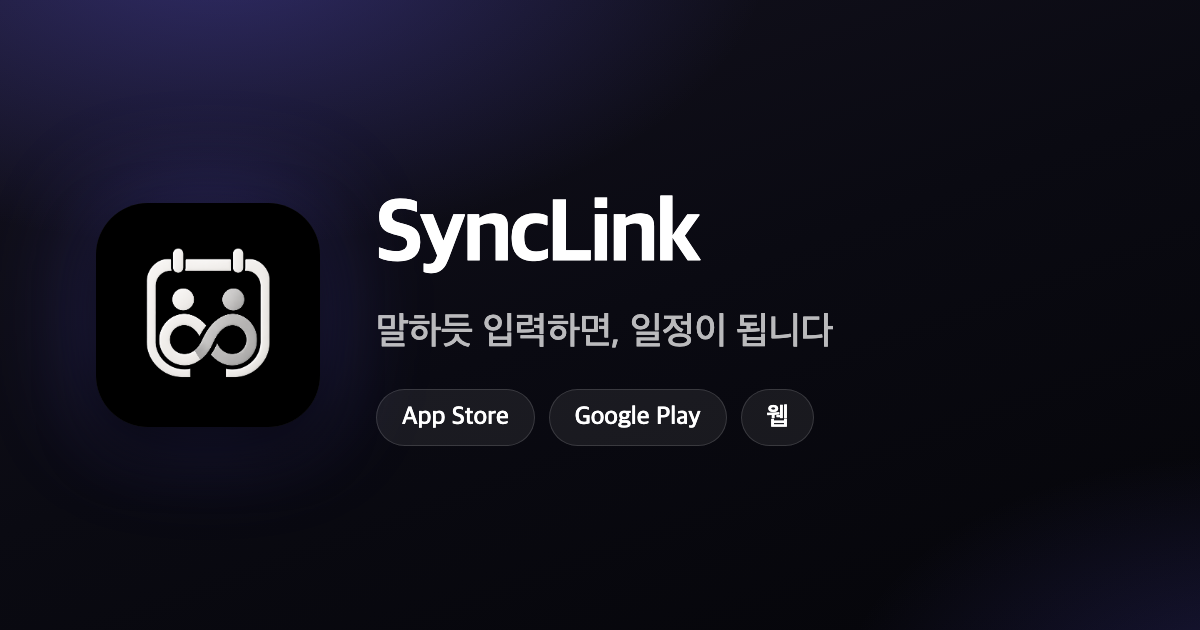
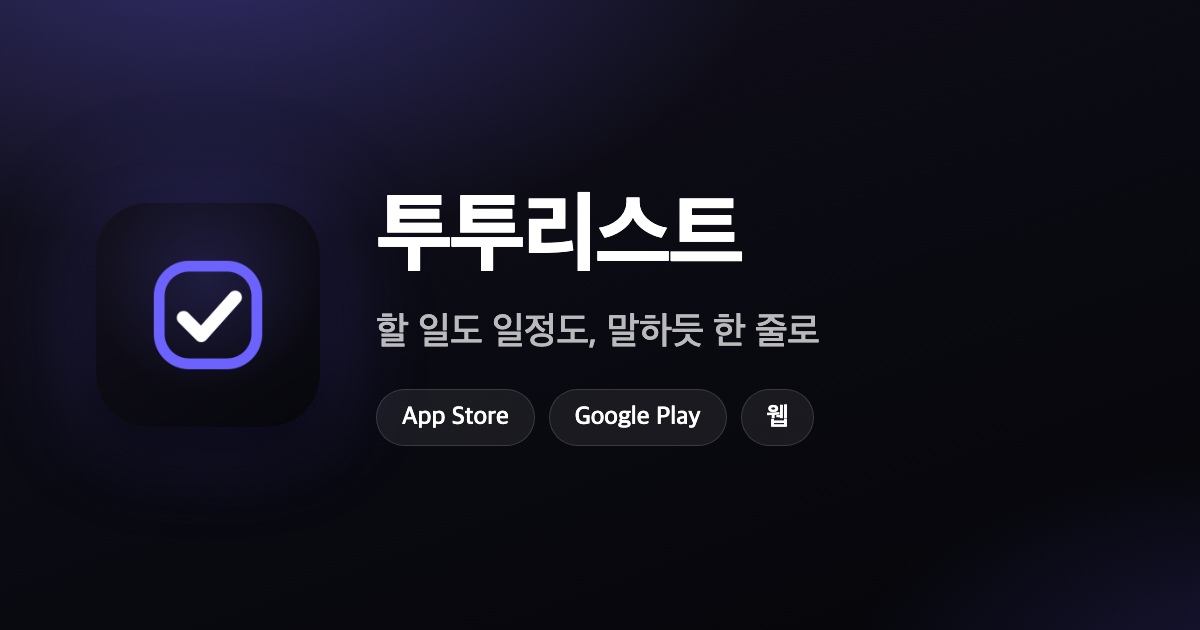
feat(brand): SyncLink → 투투리스트 리브랜딩 (자산·문구)
LEAD 확정(08-10): 이름=투투리스트, 아이콘=컨셉A(둥근 체크박스),
App Store 부제="함께 쓰는 할 일·일정 관리",
Play 짧은 설명="할 일도 일정도 말하듯 한 줄로. 함께 쓰는 캘린더로 모임 날짜까지 정해요."

**브랜치 작업이다.** main 에 섞으면 급한 수정을 낼 때 반쯤 바뀐 브랜딩이 딸려 나간다.
스크린샷·스토어 메타데이터까지 갖춰진 뒤 한 사이클로 합친다.

## 바꾼 것

- app.json: name, icon, splash.image, android.adaptiveIcon.foregroundImage
  🔴 adaptiveIcon 은 전용 자산(TwotwoLogo_adaptive)을 쓴다 — 적응형은 바깥 33% 가
     잘려서 풀블리드를 그대로 넣으면 가장자리가 먹힌다(기존 SyncDayLogo 가 그 상태였다).
- targets/widget/expo-target.config.json: 위젯 아이콘
- i18n 4개 로케일 **28건**
  · SyncLink 20건 + **SyncDay 8건**. 후자는 이전 개명 때 누락돼 이메일 초대
    문구에 아직 남아 있던 구 브랜드명이다.
  · 비한국어 로케일에도 '투투리스트' 를 그대로 쓴다 — 그중 둘이 "설정 → SyncLink →
    연락처" 처럼 **OS 설정의 실제 앱 이름을 가리키는 안내**라, 영문으로 바꾸면
    사용자가 찾을 수 없는 이름을 안내하게 된다.
- 스크린샷 생성기: 히어로 로고·워드마크·문구.
  워드마크를 하드코딩에서 `f.title` 참조로 바꿨다 — 하드코딩이 남아 있으면
  다음 브랜드 변경 때 스크린샷에만 옛 이름이 실린다(이번에 실제로 그럴 뻔했다).
  불릿도 승인된 Play 짧은 설명과 축을 맞췄다(말하듯 한 줄/함께 쓰는 캘린더/모임 날짜 투표).
- 랜딩 public/get/: title·OG·히어로·푸터 8곳 + logo.png(512) + og.png 재생성

## 새로 만든 것

`scripts/landing/build-assets.mjs` — 랜딩 logo/og 생성기를 **저장소로 옮겼다.**
스크래치패드 일회성 스크립트로만 있어서 브랜드가 바뀌면 스크립트부터 다시 써야 했다.
sharp 대신 macOS 내장 sips 를 쓴다(sharp 는 이 프로젝트 CI 이미지에서 소스빌드된다).

## 유지한 것

번들ID·패키지(io.synclink.app)·scheme·도메인(synclink.pages.dev).
바꾸면 기존 사용자와 배포된 초대링크가 끊긴다.

## 검증

- tsc 20건(변경 전후 동일, locales 에러 0)
- og.png 육안 확인 — 새 로고·한글 글리프 정상
- 앱 화면 캡처(public/get/shot-*.png)에는 브랜드 문구가 없어 재촬영 불필요

## 남은 것

스토어 스크린샷 재합성(shots/ 캡처 원본이 없어 capture.mjs 재실행 필요),
스토어 메타데이터 반영, 빌드·제출.
[…]

Changed region(s): [[0.0617, 0.3016, 0.2775, 0.6032], [0.3083, 0.3016, 0.6167, 0.4524], [0.3083, 0.4825, 0.7092, 0.573]]

diff --git a/src/locales/ja.ts b/src/locales/ja.ts
@@ -431,8 +431,8 @@ const ja = {
     share_invite_copied_body: '招待メッセージをクリップボードにコピーしました。どこにでも貼り付けて送信できます。',
     share_invite_title: '招待メッセージ',
     join_preview_description: 'この Space に参加しますか？',
-    share_message: 'SyncLink Space "{{name}}" に招待します！\n招待コード：{{code}}\n参加リンク：{{link}}',
-    email_body: 'SyncDay Space "{{name}}" に招待します！\n\n招待コード：{{code}}\n参加リンク：{{link}}\n\n上のリンクをクリックするか、SyncDay アプリでコードを入力して参加してください。',
+    share_message: '투투리스트 Space "{{name}}" に招待します！\n招待コード：{{code}}\n参加リンク：{{link}}',
+    email_body: '투투리스트 Space "{{name}}" に招待します！\n\n招待コード：{{code}}\n参加リンク：{{link}}\n\n上のリンクをクリックするか、투투리스트 アプリでコードを入力して参加してください。',
     edit_accessibility: 'Space を編集',
     // IDEA-011 Phase B — 明示的な所有権譲渡 UX
     transfer_ownership: '管理者の変更',
@@ -445,7 +445,7 @@ const ja = {
   contact: {
     title: '連絡先から招待',
     unsupported: 'このブラウザは連絡先へのアクセスをサポートしていません。招待コードを直接共有してください。',
-    denied: '連絡先へのアクセスがブロックされています。\n設定 → SyncLink → 連絡先 → 許可 に変更すると友達を検索して招待できます。',
+    denied: '連絡先へのアクセスがブロックされています。\n設定 → 투투리스트 → 連絡先 → 許可 に変更すると友達を検索して招待できます。',
     search_placeholder: '名前・電話番号・メールで検索',
     empty_contacts: '電話番号またはメールアドレスのある連絡先がありません。',
     no_results: '検索結果がありません。',
@@ -589,7 +589,7 @@ const ja = {
     notif_web_enable: 'このブラウザで通知を有効化',
     notif_web_blocked: 'ブラウザで通知がブロックされています',
     notif_web_enabled: '✓ このブラウザで通知が有効になっています。',
-    notif_device_note: '通知を受け取るには端末の通知権限が許可されている必要があります。\n設定アプリで SyncLink の通知を許可してください。',
+    notif_device_note: '通知を受け取るには端末の通知権限が許可されている必要があります。\n設定アプリで 투투리스트 の通知を許可してください。',
     licenses_title: 'オープンソースライセンス',
     licenses_intro: 'このアプリは以下のオープンソースおよび外部ライブラリを使用しています。各ライセンスの全文は該当プロジェクトのリポジトリで確認できます。',
     cat_color_label: 'カラー',
@@ -719,7 +719,7 @@ const ja = {
   },
 
   paywall: {
-    title: 'SyncLink Pro',
+    title: '투투리스트 Pro',
     headline: 'すべての機能を無制限で利用',
     features: [
       'AI 自然語イベント無制限',
@@ -747,7 +747,7 @@ const ja = {
     purchase_unavailable_title: '購入不可',
     purchase_unavailable_desc: '現在、決済を処理できません。しばらくしてから再試行してください。',
     purchase_complete_title: 'ご購読完了',
-    purchase_complete_desc: 'SyncLink Pro をお楽しみください！',
+    purchase_complete_desc: '투투리스트 Pro をお楽しみください！',
     purchase_failed_title: '購入失敗',
     purchase_failed_desc: '決済中にエラーが発生しました。',
     restore_complete_title: '復元完了',

diff --git a/src/locales/ko.ts b/src/locales/ko.ts
@@ -445,8 +445,8 @@ const ko = {
     share_invite_copied_body: '초대 메시지가 클립보드에 복사되었습니다. 카카오톡/Slack/이메일 등 원하는 곳에 붙여넣으세요.',
     share_invite_title: '초대 메시지',
     join_preview_description: '이 Space에 참여하시겠습니까?',
-    share_message: 'SyncLink Space "{{name}}"에 초대합니다!\n초대 코드: {{code}}\n참여 링크: {{link}}',
-    email_body: 'SyncDay Space "{{name}}"에 초대합니다!\n\n초대 코드: {{code}}\n참여 링크: {{link}}\n\n위 링크를 클릭하거나, SyncDay 앱에서 위 코드를 입력해 참여하세요.',
+    share_message: '투투리스트 Space "{{name}}"에 초대합니다!\n초대 코드: {{code}}\n참여 링크: {{link}}',
+    email_body: '투투리스트 Space "{{name}}"에 초대합니다!\n\n초대 코드: {{code}}\n참여 링크: {{link}}\n\n위 링크를 클릭하거나, 투투리스트 앱에서 위 코드를 입력해 참여하세요.',
     edit_accessibility: 'Space 편집',
     // IDEA-011 Phase B — 소유권 명시적 양도 UX
     transfer_ownership: '관리자 변경',
@@ -459,7 +459,7 @@ const ko = {
   contact: {
     title: '연락처에서 초대',
     unsupported: '이 브라우저는 연락처 접근을 지원하지 않습니다. 초대 코드를 직접 공유해 주세요.',
-    denied: '연락처 접근이 차단되어 있습니다.\n설정 → SyncLink → 연락처 → 허용으로 변경하면 친구를 검색해 초대할 수 있어요.',
+    denied: '연락처 접근이 차단되어 있습니다.\n설정 → 투투리스트 → 연락처 → 허용으로 변경하면 친구를 검색해 초대할 수 있어요.',
     search_placeholder: '이름, 전화번호, 이메일로 검색',
     empty_contacts: '연락처에 전화번호나 이메일이 있는 항목이 없어요.',
     no_results: '검색 결과가 없습니다.',
@@ -605,7 +605,7 @@ const ko = {
     notif_web_enable: '이 브라우저에 알림 활성화',
     notif_web_blocked: '브라우저에서 알림 차단됨',
     notif_web_enabled: '✓ 이 브라우저는 알림이 활성화되어 있습니다.',
-    notif_device_note: '알림을 받으려면 기기의 알림 권한이 허용되어 있어야 합니다.\n설정 앱에서 SyncLink의 알림을 허용해 주세요.',
+    notif_device_note: '알림을 받으려면 기기의 알림 권한이 허용되어 있어야 합니다.\n설정 앱에서 투투리스트의 알림을 허용해 주세요.',
     licenses_title: '오픈소스 라이선스',
     licenses_intro: '이 앱은 다음 오픈소스 및 외부 라이브러리를 사용합니다. 각 라이선스의 전문은 해당 프로젝트 저장소에서 확인할 수 있습니다.',
     cat_color_label: '색상',
@@ -736,7 +736,7 @@ const ko = {
   },
 
   paywall: {
-    title: 'SyncLink Pro',
+    title: '투투리스트 Pro',
     headline: '모든 기능을 제한 없이 사용하세요',
     features: [
       'AI 자연어 일정 무제한',
@@ -764,7 +764,7 @@ const ko = {
     purchase_unavailable_title: '결제 불가',
     purchase_unavailable_desc: '현재 결제를 처리할 수 없습니다. 잠시 후 다시 시도해 주세요.',
     purchase_complete_title: '구독 완료',
-    purchase_complete_desc: 'SyncLink Pro를 시작하세요.',
+    purchase_complete_desc: '투투리스트 Pro를 시작하세요.',
     purchase_failed_title: '결제 실패',
     purchase_failed_desc: '결제 중 오류가 발생했습니다.',
     restore_complete_title: '복원 완료',

diff --git a/src/locales/en.ts b/src/locales/en.ts
@@ -434,8 +434,8 @@ const en = {
     share_invite_copied_body: 'Invite message copied. Paste it anywhere — KakaoTalk, Slack, email, etc.',
     share_invite_title: 'Invite Message',
     join_preview_description: 'Would you like to join this Space?',
-    share_message: 'You are invited to SyncLink Space "{{name}}"!\nInvite code: {{code}}\nJoin link: {{link}}',
-    email_body: 'You are invited to SyncDay Space "{{name}}"!\n\nInvite code: {{code}}\nJoin link: {{link}}\n\nClick the link above or enter the code in the SyncDay app to join.',
+    share_message: 'You are invited to 투투리스트 Space "{{name}}"!\nInvite code: {{code}}\nJoin link: {{link}}',
+    email_body: 'You are invited to 투투리스트 Space "{{name}}"!\n\nInvite code: {{code}}\nJoin link: {{link}}\n\nClick the link above or enter the code in the 투투리스트 app to join.',
     edit_accessibility: 'Edit Space',
     // IDEA-011 Phase B — explicit ownership transfer UX
     transfer_ownership: 'Change Admin',
@@ -448,7 +448,7 @@ const en = {
   contact: {
     title: 'Invite from Contacts',
     unsupported: 'This browser does not support contact access. Please share the invite code directly.',
-    denied: 'Contact access is blocked.\nGo to Settings → SyncLink → Contacts → Allow to search and invite friends.',
+    denied: 'Contact access is blocked.\nGo to Settings → 투투리스트 → Contacts → Allow to search and invite friends.',
     search_placeholder: 'Search by name, phone, or email',
     empty_contacts: 'No contacts with a phone number or email.',
     no_results: 'No results found.',
@@ -593,7 +593,7 @@ const en = {
     notif_web_enable: 'Enable notifications in this browser',
     notif_web_blocked: 'Notifications blocked by browser',
     notif_web_enabled: '✓ Notifications are enabled in this browser.',
-    notif_device_note: 'Device-level notification permission must be granted.\nAllow SyncLink notifications in the system Settings app.',
+    notif_device_note: 'Device-level notification permission must be granted.\nAllow 투투리스트 notifications in the system Settings app.',
     licenses_title: 'Open-source licenses',
     licenses_intro: 'This app uses the following open-source and third-party libraries. Full license texts are available in each project repository.',
     cat_color_label: 'Color',
@@ -723,7 +723,7 @@ const en = {
   },
 
   paywall: {
-    title: 'SyncLink Pro',
+    title: '투투리스트 Pro',
     headline: 'Unlock all features without limits',
     features: [
       'Unlimited AI natural language events',
@@ -751,7 +751,7 @@ const en = {
     purchase_unavailable_title: 'Unavailable',
     purchase_unavailable_desc: 'Unable to process payment right now. Please try again later.',
     purchase_complete_title: 'Welcome to Pro',
-    purchase_complete_desc: 'Enjoy SyncLink Pro!',
+    purchase_complete_desc: 'Enjoy 투투리스트 Pro!',
     purchase_failed_title: 'Purchase Failed',
     purchase_failed_desc: 'An error occurred during payment.',
     restore_complete_title: 'Restored',

diff --git a/src/locales/zh.ts b/src/locales/zh.ts
@@ -434,8 +434,8 @@ const zh = {
     share_invite_copied_body: '邀请消息已复制到剪贴板，可粘贴到任意地方发送。',
     share_invite_title: '邀请消息',
     join_preview_description: '是否要加入此 Space？',
-    share_message: '邀请您加入 SyncLink Space "{{name}}"！\n邀请码：{{code}}\n加入链接：{{link}}',
-    email_body: '邀请您加入 SyncDay Space "{{name}}"！\n\n邀请码：{{code}}\n加入链接：{{link}}\n\n点击上方链接，或在 SyncDay 应用中输入邀请码加入。',
+    share_message: '邀请您加入 투투리스트 Space "{{name}}"！\n邀请码：{{code}}\n加入链接：{{link}}',
+    email_body: '邀请您加入 투투리스트 Space "{{name}}"！\n\n邀请码：{{code}}\n加入链接：{{link}}\n\n点击上方链接，或在 투투리스트 应用中输入邀请码加入。',
     edit_accessibility: '编辑 Space',
     // IDEA-011 Phase B — 明确所有权转让 UX
     transfer_ownership: '更换管理员',
@@ -448,7 +448,7 @@ const zh = {
   contact: {
     title: '从联系人中邀请',
     unsupported: '此浏览器不支持访问联系人。请直接分享邀请码。',
-    denied: '联系人访问被阻止。\n请前往设置 → SyncLink → 联系人 → 允许，以搜索并邀请朋友。',
+    denied: '联系人访问被阻止。\n请前往设置 → 투투리스트 → 联系人 → 允许，以搜索并邀请朋友。',
     search_placeholder: '按姓名、电话或邮箱搜索',
     empty_contacts: '联系人中没有包含电话号码或邮箱的记录。',
     no_results: '未找到结果。',
@@ -592,7 +592,7 @@ const zh = {
     notif_web_enable: '在此浏览器启用通知',
     notif_web_blocked: '此浏览器已阻止通知',
     notif_web_enabled: '✓ 此浏览器已启用通知。',
-    notif_device_note: '要接收通知，需要在设备端授予通知权限。\n请在系统设置中允许 SyncLink 的通知。',
+    notif_device_note: '要接收通知，需要在设备端授予通知权限。\n请在系统设置中允许 투투리스트 的通知。',
     licenses_title: '开源许可证',
     licenses_intro: '本应用使用以下开源和第三方库。各许可证全文可在对应项目仓库查看。',
     cat_color_label: '颜色',
@@ -722,7 +722,7 @@ const zh = {
   },
 
   paywall: {
-    title: 'SyncLink Pro',
+    title: '투투리스트 Pro',
     headline: '无限制使用所有功能',
     features: [
       'AI 自然语言日程无限制',
@@ -750,7 +750,7 @@ const zh = {
     purchase_unavailable_title: '无法购买',
     purchase_unavailable_desc: '当前无法处理付款，请稍后重试。',
     purchase_complete_title: '订阅成功',
-    purchase_complete_desc: '开始使用 SyncLink Pro！',
+    purchase_complete_desc: '开始使用 투투리스트 Pro！',
     purchase_failed_title: '购买失败',
     purchase_failed_desc: '付款过程中发生错误。',
     restore_complete_title: '恢复成功',

diff --git a/public/get/index.html b/public/get/index.html
@@ -3,16 +3,16 @@
 <head>
   <meta charset="utf-8" />
   <meta name="viewport" content="width=device-width, initial-scale=1, viewport-fit=cover" />
-  <title>SyncLink 다운로드 — 말하듯 입력하면, 일정이 됩니다</title>
-  <meta name="description" content="자연어로 일정을 등록하고, 가족·연인·팀과 Space로 공유하세요. iOS·Android·웹 어디서나." />
+  <title>투투리스트 다운로드 — 할 일도 일정도, 말하듯 한 줄로</title>
+  <meta name="description" content="할 일과 일정을 말하듯 한 줄로. 가족·연인·팀과 함께 쓰는 캘린더로 모임 날짜까지 정해요. iOS·Android·웹 어디서나." />
   <meta name="theme-color" content="#0a0a12" />
   <link rel="icon" href="/get/logo.png" />
 
   <!-- Shared mostly through KakaoTalk, so the OG card matters more than usual. -->
   <meta property="og:type" content="website" />
-  <meta property="og:site_name" content="SyncLink" />
-  <meta property="og:title" content="SyncLink — 말하듯 입력하면, 일정이 됩니다" />
-  <meta property="og:description" content="자연어로 일정을 등록하고, 가족·연인·팀과 Space로 공유하세요. iOS·Android·웹 어디서나." />
+  <meta property="og:site_name" content="투투리스트" />
+  <meta property="og:title" content="투투리스트 — 할 일도 일정도, 말하듯 한 줄로" />
+  <meta property="og:description" content="할 일과 일정을 말하듯 한 줄로. 가족·연인·팀과 함께 쓰는 캘린더로 모임 날짜까지 정해요. iOS·Android·웹 어디서나." />
   <meta property="og:url" content="https://synclink.pages.dev/get" />
   <meta property="og:image" content="https://synclink.pages.dev/get/og.png" />
   <meta property="og:image:width" content="1200" />
@@ -144,9 +144,9 @@
 <body>
   <div class="wrap">
     <header class="hero">
-      <div class="tile"><img src="/get/logo.png" alt="SyncLink 앱 아이콘" width="256" height="256" /></div>
-      <h1>말하듯 입력하면,<br />일정이 됩니다</h1>
-      <p class="tagline">“내일 오후 3시 팀 회의” 한 줄이면 끝.<br />가족·연인·팀과 함께 보는 일정까지.</p>
+      <div class="tile"><img src="/get/logo.png" alt="투투리스트 앱 아이콘" width="256" height="256" /></div>
+      <h1>할 일도 일정도,<br />말하듯 한 줄로</h1>
+      <p class="tagline">“내일 오후 3시 팀 회의” 한 줄이면 끝.<br />함께 쓰는 캘린더로 모임 날짜까지.</p>
 
       <nav class="stores" id="stores">
         <a class="btn" id="btn-ios" href="https://apps.apple.com/kr/app/id6763083903">
@@ -212,7 +212,7 @@
         <a href="/account-deletion">계정 및 데이터 삭제</a>
         <a href="/">웹 앱</a>
       </nav>
-      <p class="meta">SyncLink · SyncCo · io.synclink.app</p>
+      <p class="meta">투투리스트 · SyncCo · io.synclink.app</p>
     </footer>
   </div>
 
